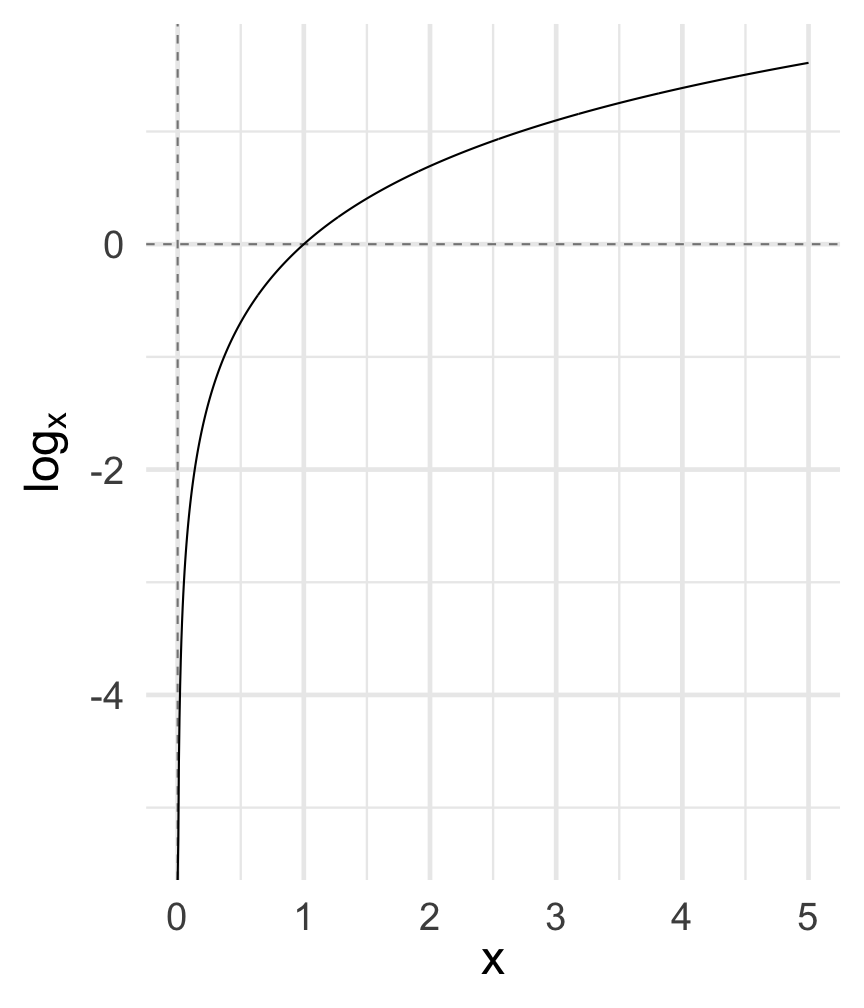
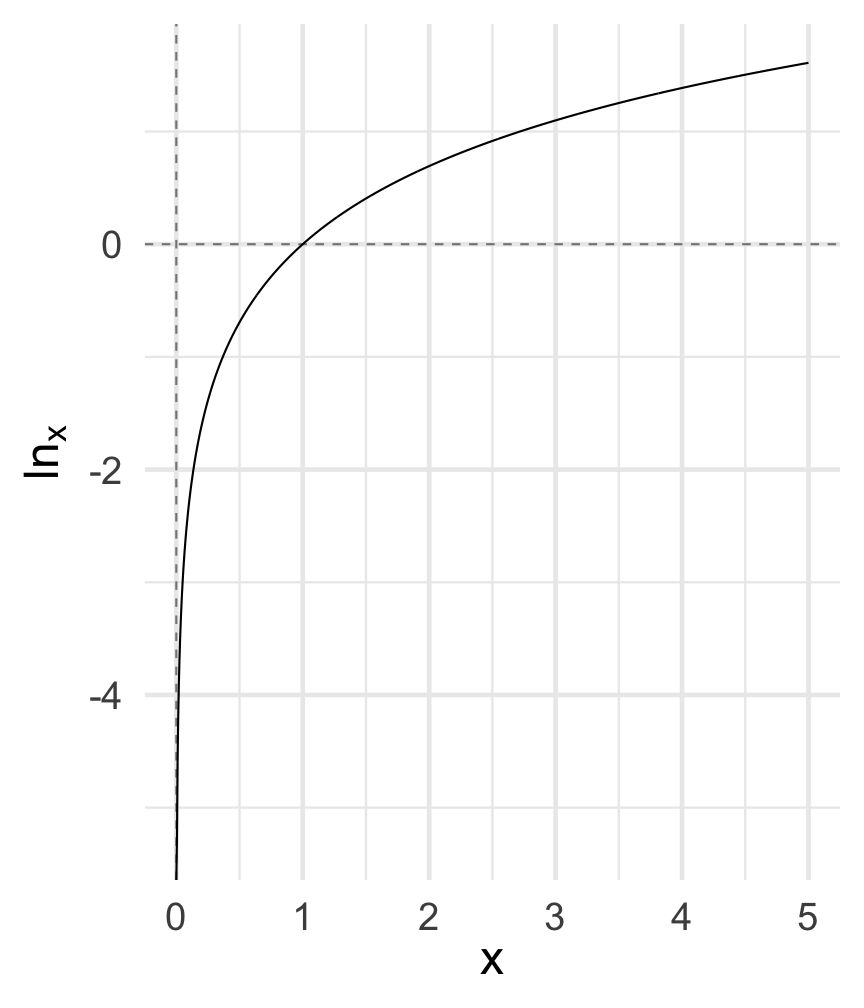
Update day 4 slides

diff --git a/docs/04-critical-points.html b/docs/04-critical-points.html
@@ -54,7 +54,7 @@ class: center, middle, inverse, title-slide
 
 .pull-right[
 
-* Rolle's theorem guarantee's that, at some point, `\(f^{'}(x) = 0\)`
+* Rolle's theorem guarantees that, at some point, `\(f^{'}(x) = 0\)`
 * Intuition from proof - what happens as we approach from the left? 
 * Intuition from proof - what happens as we approach from the right? 
 
@@ -63,7 +63,16 @@ class: center, middle, inverse, title-slide
 ---
 
 # Higher order derivatives
+Conceptually, we are thinking about changes (get excited for all the *moments* you're going to have in stats later!). The first derivative tells us about the rate of change of our function.  
 
+
+--
+**BUT!** we can also explore how fast the function is changing...that is, the rate of change for our rate of change. Here, we can understand the acceleration of change. We can keep going (provided our function is differentiable).
+
+---
+
+# Higher order derivatives
+(in other words:)
 * Derivatives of derivatives
 * First derivative
 
@@ -79,8 +88,10 @@ class: center, middle, inverse, title-slide
 
 ---
 
-# Higher order derivatives
+# Higher order derivatives: example
+Suppose we start with a function. `\(x^3\)` -- let's explore the different derivatives we might take. Try it out!    
 
+--
 $$
 `\begin{aligned}
 f(x) &amp;=x^3\\
@@ -95,6 +106,14 @@ $$
 * If `\(f'(x)\)` is differentiable, then **continuously differentiable**
 * Optimization requires differentiation
 
+
+---
+
+# Inflection point
+Inflection points are where we move from being concave up to concave down (or vice versa). 
+
+&lt;img src="04-critical-points_files/figure-html/concave-inf-1.png" width="864" style="display: block; margin: auto;" /&gt;
+
 ---
 
 # Inflection point
@@ -105,14 +124,56 @@ $$
 
 ---
 
+# Inflection point
+
+&gt; For a given function `\(y = f(x)\)`, a point `\((x^∗, y^∗)\)` where the second derivative immediately on one side of the point is signed oppositely to the second derivative immediately on the other side
+
+Let's start with a basic plot: here, we have a function: `\(\frac{x^3}{15} - x^2 + 4x +2\)`. We can see where we might guess there are the concave up / down points and where the inflection point might be. 
+
+&lt;img src="04-critical-points_files/figure-html/inflect-1-1.png" width="864" style="display: block; margin: auto;" /&gt;
+
+---
+
+# Inflection point
+
+Let's now consider the same function, but the derivative. We are expecting THE VALUE OF CHANGE (AKA RATE OF CHANGE TO BE ZERO). GREEN: where the derivative (change) is positive or negative. GRAY: point where we don't see any more change (rate of change = 0).
+
+&lt;img src="04-critical-points_files/figure-html/inflect-deriv0-1.png" width="864" style="display: block; margin: auto;" /&gt;
+--
+&lt;img src="04-critical-points_files/figure-html/inflect-deriv1-1.png" width="864" style="display: block; margin: auto;" /&gt;
+---
+
+# Inflection point
+
+&gt; For a given function `\(y = f(x)\)`, a point `\((x^∗, y^∗)\)` where the second derivative immediately on one side of the point is signed oppositely to the second derivative immediately on the other side
+
+&lt;img src="04-critical-points_files/figure-html/inflect-all-1.png" width="864" style="display: block; margin: auto;" /&gt;
+
+---
+
 # Concavity
 
-* Chord
 * Concave up (convex)
 * Concave down (concave)
 * Verification
     * Graphically
     * Analytically
+
+---
+
+# Concavity
+
+* Where a function is twice differentiable and concave over some area, then the function is concave down where `\(f''(x) &lt; 0\)` and concave up where `\(f''(x) &gt; 0\)`  
+
+
+What does this mean? 
+--  
+
+* We're starting at a critical point `\((f'(x)=0)\)`, so we know we're starting from either a max or min. 
+
+* We are then moving away from that point and we're either *increasing* (min - concave up) or *decreasing* (max - concave down). 
+  * If we're increasing, the second derivative is positive, `\(f''(x) &gt; 0\)`. 
+  * If we're decreasing, the second derivative is negative, `\(f''(x) &lt; 0\)`.
 
 ---
 
@@ -134,13 +195,15 @@ $$
 
 .pull-right[
 
+&lt;font size="2"&gt; Exploring change:
 $$
 `\begin{aligned}
-f(x) &amp; =  e^{x} \\
-f^{'}(x) &amp; =  e^{x} \\
-f^{''}(x) &amp; =  e^{x} 
+f(x) &amp; =  e^{x} \text{ (what the function is doing?)}\\ 
+f^{'}(x) &amp; =  e^{x} \text{ rate of change (never zero!)} \\
+f^{''}(x) &amp; =  e^{x} \text{ rate of change of rate of change (never zero!) }
 \end{aligned}`
 $$
+&lt;/font&gt;
 
 ]
 
@@ -156,15 +219,18 @@ $$
 ]
 
 .pull-right[
+&lt;font size="2"&gt; Exploring change:
 
 $$
 `\begin{aligned}
-f(x) &amp; =  \log(x) \\
-f^{'}(x) &amp; =  \frac{1}{x} \\
-f^{''}(x) &amp; =  -\frac{1}{x^2}
+f(x) &amp; =  \ln(x) \\
+f^{'}(x) &amp; =  \frac{1}{x} \text{ rate of change (always positive (above 0)*}\\
+f^{''}(x) &amp; =  -\frac{1}{x^2} \text{ rate of change of rate of change}
 \end{aligned}`
 $$
+&lt;/font&gt;
 
+\* note that `\(ln(x)\)` only defined for `\(x &gt; 0\)`
 ]
 
 ---
@@ -172,19 +238,57 @@ $$
 # Types of extreme values
 
 * Maximum or minimum
-* Local or global
+* Local or global    
 
+--
+*You can find these graphically or analytically*
 ---
 
-# Types of extreme values
+# Types of extreme values: Examples
 
+How would we evaluate the extreme values here? 
 &lt;img src="04-critical-points_files/figure-html/endpoints-1.png" width="864" style="display: block; margin: auto;" /&gt;
 
+
+--
+
+* Derivative of the function. `\(f'(x) = 1\)`
+* Set to zero and solve. (n/a)
+* Options: 
+  * Plug in values to original function to find corresponding f(x). (only evaluate at end points (0 and 5))
+  * Find second derivative to see if positive (min) or negative (max)
+
 ---
 
-# Types of extreme values
+# Types of extreme values: Example           
+   
 
+Try with a neighbor:    
 &lt;img src="04-critical-points_files/figure-html/max-middle-1.png" width="864" style="display: block; margin: auto;" /&gt;
+
+
+--
+
+
+#### `\(f'(x) = -2x\)`, zero at `\(x=0\)`, `\(f(x) = 0^2+5=5\)`. 
+
+ 
+But is it a max or min?   
+  
+
+
+--
+
+
+   
+   
+Try adjacent point (e.g. -1 or 1). `\((-1^2+5)=4\)` OR take second derivative: `\(-2\)`. 
+
+
+
+--
+
+Since 4 is less than 5, we know this is a max at x = 0, since `\(f(x = 0) &gt; f(x=1)\)`. Similarly, the second derivative is negative, so this also indicates that it is a max. 
 
 ---
 
@@ -218,13 +322,15 @@ $$
 
 ---
 
-# `\(f(x) = -x^2\)`,  `\(x \in [-3, 3]\)`
+# Ex: 
+`\(f(x) = -x^2\)`,  `\(x \in [-3, 3]\)`
 
 &lt;img src="04-critical-points_files/figure-html/ex-1-1.png" width="864" style="display: block; margin: auto;" /&gt;
 
 ---
 
-# `\(f(x) = x^3\)`, `\(x \in [-3, 3]\)`
+# Ex:  
+`\(f(x) = x^3\)`, `\(x \in [-3, 3]\)`
 
 &lt;img src="04-critical-points_files/figure-html/ex-2-1.png" width="864" style="display: block; margin: auto;" /&gt;
 
@@ -304,6 +410,15 @@ $$
 --
 
 * `\(-N&lt;0 \leadsto \text{concave down}\)`
+
+
+---
+
+# Maximum likelihood estimation: MLE in life
+Logit and other limited-dependent variable models: what function creates a curve that best predicts our outcome variable? 
+
+* Simplest example: 0s and 1s as outcome
+* Trying to determine which function best predicts the outcome for parameter estimates
 
 ---
 
@@ -547,6 +662,36 @@ $$
 # `\(\alpha = 0.1\)`
 
 &lt;img src="04-critical-points_files/figure-html/grad-descent-learn-rate-2-1.gif" style="display: block; margin: auto;" /&gt;
+---
+
+# STARTING THE PARTY: Matrices
+## Example matricies
+We have two matrices: X and Y. 
+
+`$$\begin{aligned}\mathbf{X} &amp;= 
+\left[ 
+\begin{array}{rrr}1 &amp; 2 &amp; 3 \\
+2 &amp; 1 &amp; 4 \\
+\end{array} \right] \\
+\mathbf{Y} &amp;= \left[ \begin{array}{rr}
+1 &amp; 2 \\
+3 &amp; 2 \\
+1 &amp; 4 \\
+\end{array} \right]
+\end{aligned}$$`
+
+X has two rows and three columms, so is `\(2 \times 3\)`. Y has three rows and two columns, so is `\(3 \times 2\)`. 
+
+--
+
+Matrices are incredibly helpful, despite also being a bit challenging to get the hang of. We'll talk more about them tomorrow but you will want to note the dimensions of a matrix. You can do some operations with them (addition / subtraction) and they work the way you are probably guessing (need to be the same size). **MULTIPLICATION DOES NOT WORK THAT WAY! WARNING!!!**
+---
+
+
+
+# INTROS
+
+* Name, pronouns, subfield/research area, where you are currently, something fun/interesting about you and/or your hobbies
     </textarea>
 <style data-target="print-only">@media screen {.remark-slide-container{display:block;}.remark-slide-scaler{box-shadow:none;}}</style>
 <script src="https://remarkjs.com/downloads/remark-latest.min.js"></script>
